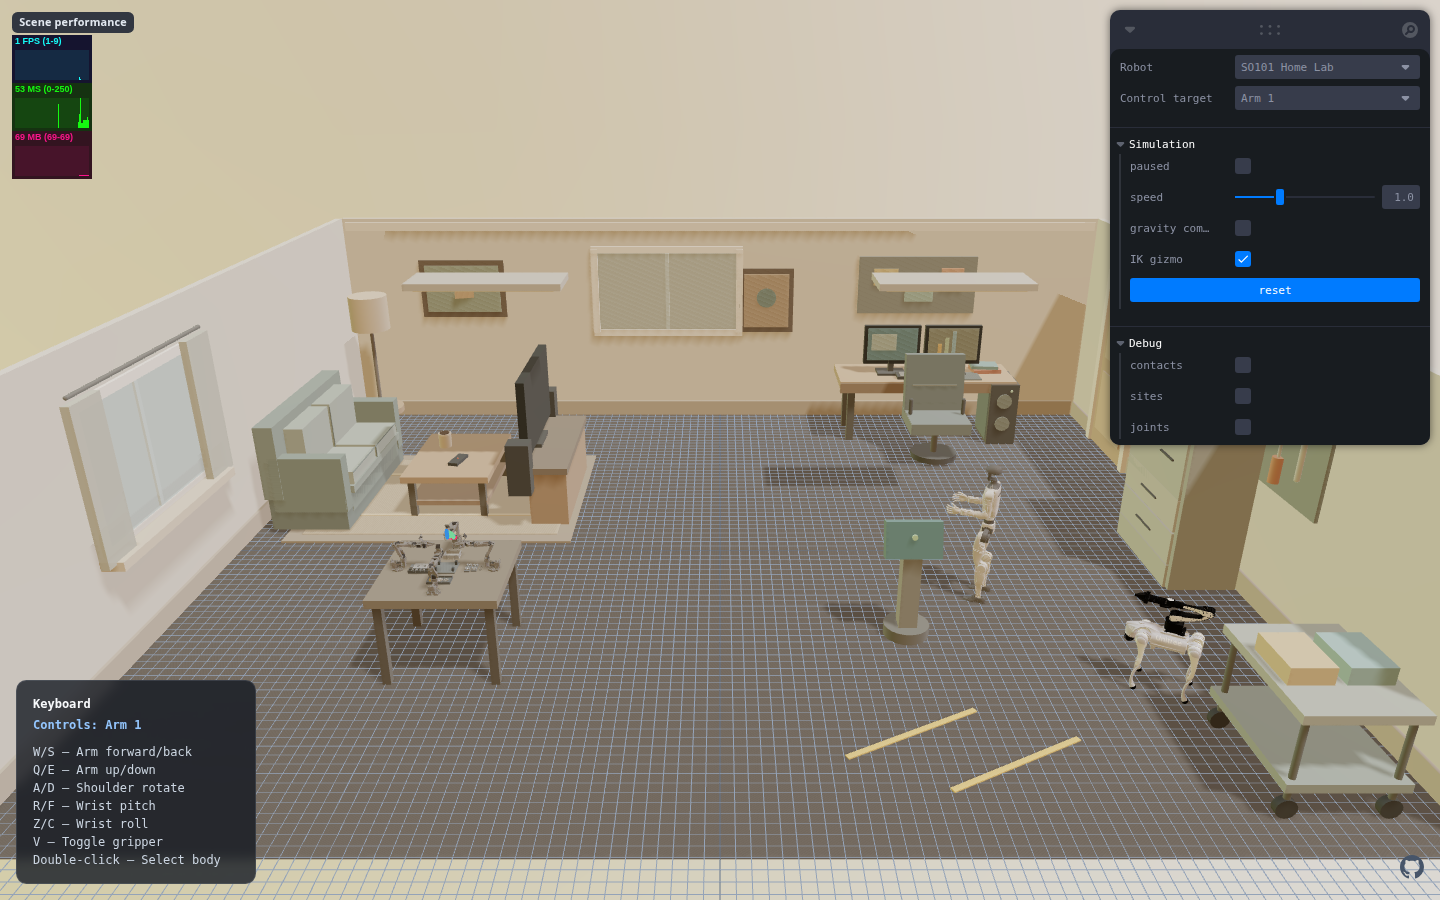
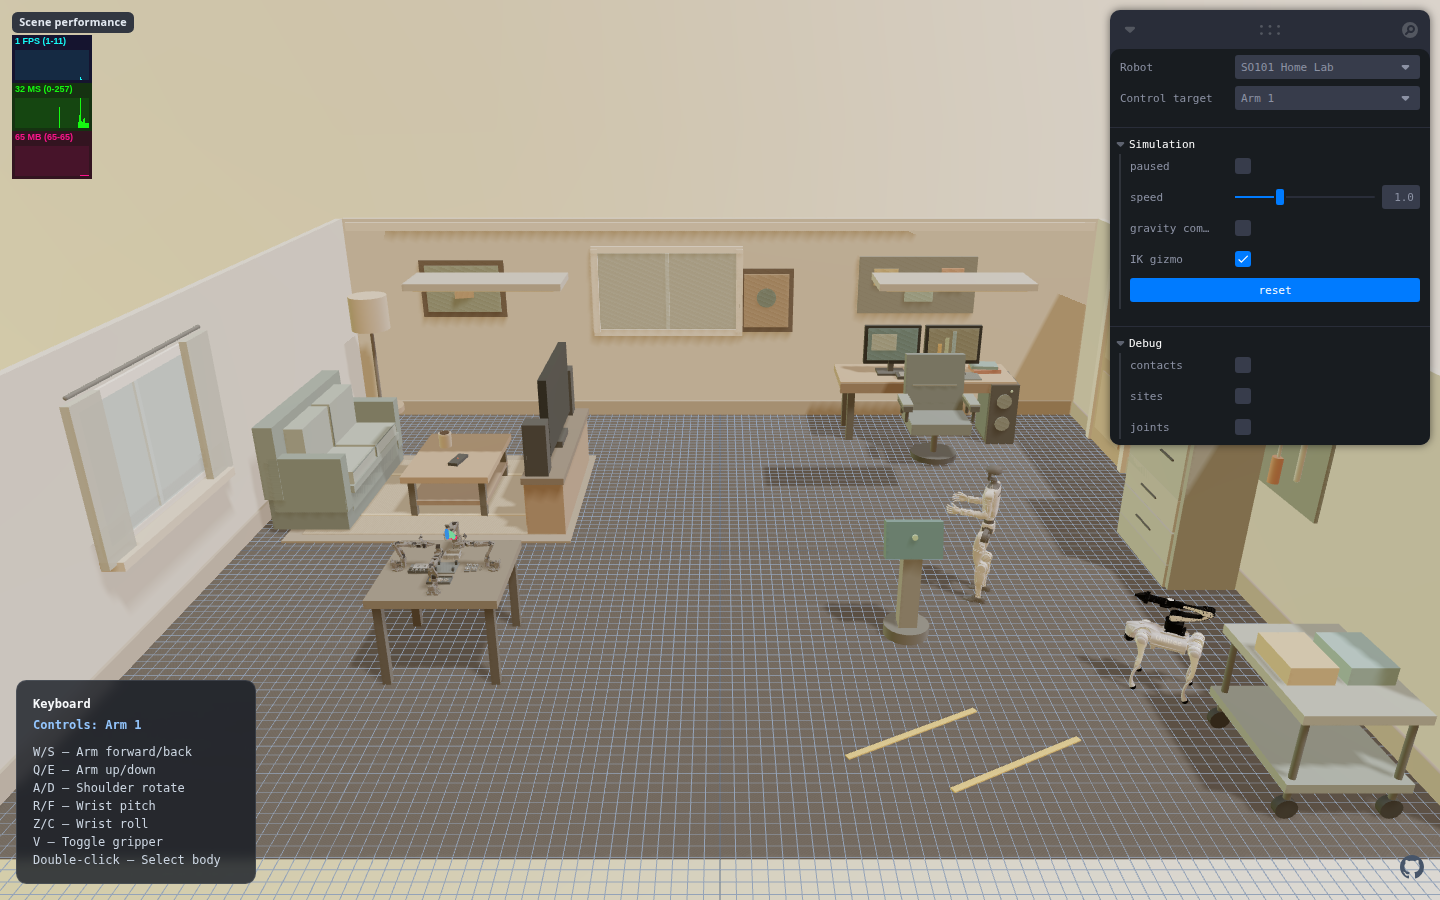
fix(scene): align Home Lab furniture
Rebuild the office-chair armrests and seat the TV and speakers cleanly on the widened console. Add geometry regression coverage and refresh the Home Lab visual and progress records.

Changed region(s): [[0.3438, 0.3733, 0.4062, 0.5911], [0.625, 0.4356, 0.6875, 0.4667]]

diff --git a/src/so101HomeLabEnvironment.js b/src/so101HomeLabEnvironment.js
@@ -82,26 +82,26 @@ export const SO101_HOME_LAB_ROOM_XML = `
       <geom name="home_lab_sofa_leg_4" type="box" pos="0.27 0.78 0.08" size="0.045 0.045 0.08" rgba="0.18 0.17 0.15 1" contype="0" conaffinity="0"/>
     </body>
     <body name="home_lab_tv_console" pos="-1.82 1.35 0">
-      <geom name="home_lab_tv_console_case" type="box" pos="0 0 0.31" size="0.20 0.78 0.31" rgba="0.48 0.38 0.29 1" contype="0" conaffinity="0"/>
-      <geom name="home_lab_tv_console_top" type="box" pos="0 0 0.65" size="0.22 0.82 0.035" rgba="0.30 0.27 0.23 1" contype="0" conaffinity="0"/>
-      <geom name="home_lab_tv_console_door_1" type="box" pos="-0.208 -0.38 0.34" size="0.010 0.33 0.24" rgba="0.61 0.49 0.36 1" contype="0" conaffinity="0"/>
-      <geom name="home_lab_tv_console_door_2" type="box" pos="-0.208 0.38 0.34" size="0.010 0.33 0.24" rgba="0.61 0.49 0.36 1" contype="0" conaffinity="0"/>
-      <geom name="home_lab_tv_console_handle_1" type="capsule" fromto="-0.225 -0.54 0.35 -0.225 -0.22 0.35" size="0.008" rgba="0.18 0.19 0.18 1" contype="0" conaffinity="0"/>
-      <geom name="home_lab_tv_console_handle_2" type="capsule" fromto="-0.225 0.22 0.35 -0.225 0.54 0.35" size="0.008" rgba="0.18 0.19 0.18 1" contype="0" conaffinity="0"/>
+      <geom name="home_lab_tv_console_case" type="box" pos="0 0 0.31" size="0.20 1.02 0.31" rgba="0.48 0.38 0.29 1" contype="0" conaffinity="0"/>
+      <geom name="home_lab_tv_console_top" type="box" pos="0 0 0.65" size="0.22 1.08 0.035" rgba="0.30 0.27 0.23 1" contype="0" conaffinity="0"/>
+      <geom name="home_lab_tv_console_door_1" type="box" pos="-0.208 -0.52 0.34" size="0.010 0.44 0.24" rgba="0.61 0.49 0.36 1" contype="0" conaffinity="0"/>
+      <geom name="home_lab_tv_console_door_2" type="box" pos="-0.208 0.52 0.34" size="0.010 0.44 0.24" rgba="0.61 0.49 0.36 1" contype="0" conaffinity="0"/>
+      <geom name="home_lab_tv_console_handle_1" type="capsule" fromto="-0.225 -0.76 0.35 -0.225 -0.36 0.35" size="0.008" rgba="0.18 0.19 0.18 1" contype="0" conaffinity="0"/>
+      <geom name="home_lab_tv_console_handle_2" type="capsule" fromto="-0.225 0.36 0.35 -0.225 0.76 0.35" size="0.008" rgba="0.18 0.19 0.18 1" contype="0" conaffinity="0"/>
     </body>
-    <body name="home_lab_tv" pos="-2.05 1.35 1.17">
+    <body name="home_lab_tv" pos="-1.82 1.35 1.20">
       <geom name="home_lab_tv_panel" type="box" size="0.045 0.72 0.42" rgba="0.07 0.08 0.08 1" contype="0" conaffinity="0"/>
       <geom name="home_lab_tv_screen" type="box" pos="-0.050 0 0.01" size="0.007 0.66 0.355" rgba="0.18 0.26 0.29 1" contype="0" conaffinity="0"/>
       <geom name="home_lab_tv_screen_horizon" type="box" pos="-0.059 0 -0.08" size="0.003 0.52 0.07" rgba="0.40 0.48 0.42 1" contype="0" conaffinity="0"/>
       <geom name="home_lab_tv_stand" type="box" pos="0 0 -0.48" size="0.09 0.22 0.035" rgba="0.13 0.14 0.14 1" contype="0" conaffinity="0"/>
       <geom name="home_lab_tv_neck" type="box" pos="0 0 -0.42" size="0.035 0.035 0.08" rgba="0.13 0.14 0.14 1" contype="0" conaffinity="0"/>
     </body>
-    <body name="home_lab_tv_left_speaker" pos="-2.08 0.48 0.72">
+    <body name="home_lab_tv_left_speaker" pos="-1.88 0.43 0.965">
       <geom name="home_lab_tv_left_speaker_case" type="box" size="0.12 0.10 0.28" rgba="0.12 0.13 0.13 1" contype="0" conaffinity="0"/>
       <geom name="home_lab_tv_left_speaker_driver_1" type="cylinder" pos="-0.105 0 0.10" size="0.055 0.010" euler="0 90 0" rgba="0.35 0.36 0.34 1" contype="0" conaffinity="0"/>
       <geom name="home_lab_tv_left_speaker_driver_2" type="cylinder" pos="-0.105 0 -0.11" size="0.075 0.010" euler="0 90 0" rgba="0.27 0.28 0.27 1" contype="0" conaffinity="0"/>
     </body>
-    <body name="home_lab_tv_right_speaker" pos="-2.08 2.22 0.72">
+    <body name="home_lab_tv_right_speaker" pos="-1.88 2.27 0.965">
       <geom name="home_lab_tv_right_speaker_case" type="box" size="0.12 0.10 0.28" rgba="0.12 0.13 0.13 1" contype="0" conaffinity="0"/>
       <geom name="home_lab_tv_right_speaker_driver_1" type="cylinder" pos="-0.105 0 0.10" size="0.055 0.010" euler="0 90 0" rgba="0.35 0.36 0.34 1" contype="0" conaffinity="0"/>
       <geom name="home_lab_tv_right_speaker_driver_2" type="cylinder" pos="-0.105 0 -0.11" size="0.075 0.010" euler="0 90 0" rgba="0.27 0.28 0.27 1" contype="0" conaffinity="0"/>
@@ -184,8 +184,14 @@ export const SO101_HOME_LAB_ROOM_XML = `
       <geom name="home_lab_office_chair_back" type="box" pos="0 0.29 0.91" size="0.36 0.07 0.36" euler="-8 0 0" rgba="0.25 0.30 0.30 1" contype="0" conaffinity="0"/>
       <geom name="home_lab_office_chair_mesh_1" type="capsule" fromto="-0.27 0.215 0.70 0.27 0.215 0.70" size="0.009" rgba="0.45 0.49 0.47 1" contype="0" conaffinity="0"/>
       <geom name="home_lab_office_chair_mesh_2" type="capsule" fromto="-0.27 0.225 0.90 0.27 0.225 0.90" size="0.009" rgba="0.45 0.49 0.47 1" contype="0" conaffinity="0"/>
-      <geom name="home_lab_office_chair_arm_left" type="capsule" fromto="-0.32 0 0.62 -0.32 0 0.78" size="0.025" rgba="0.19 0.20 0.20 1" contype="0" conaffinity="0"/>
-      <geom name="home_lab_office_chair_arm_right" type="capsule" fromto="0.32 0 0.62 0.32 0 0.78" size="0.025" rgba="0.19 0.20 0.20 1" contype="0" conaffinity="0"/>
+      <geom name="home_lab_office_chair_arm_support_front_left" type="capsule" fromto="-0.40 -0.20 0.59 -0.40 -0.20 0.72" size="0.022" rgba="0.19 0.20 0.20 1" contype="0" conaffinity="0"/>
+      <geom name="home_lab_office_chair_arm_support_rear_left" type="capsule" fromto="-0.40 0.12 0.59 -0.40 0.12 0.72" size="0.022" rgba="0.19 0.20 0.20 1" contype="0" conaffinity="0"/>
+      <geom name="home_lab_office_chair_arm_support_front_right" type="capsule" fromto="0.40 -0.20 0.59 0.40 -0.20 0.72" size="0.022" rgba="0.19 0.20 0.20 1" contype="0" conaffinity="0"/>
+      <geom name="home_lab_office_chair_arm_support_rear_right" type="capsule" fromto="0.40 0.12 0.59 0.40 0.12 0.72" size="0.022" rgba="0.19 0.20 0.20 1" contype="0" conaffinity="0"/>
+      <geom name="home_lab_office_chair_arm_rail_left" type="box" pos="-0.40 -0.04 0.755" size="0.055 0.22 0.035" rgba="0.18 0.20 0.20 1" contype="0" conaffinity="0"/>
+      <geom name="home_lab_office_chair_arm_rail_right" type="box" pos="0.40 -0.04 0.755" size="0.055 0.22 0.035" rgba="0.18 0.20 0.20 1" contype="0" conaffinity="0"/>
+      <geom name="home_lab_office_chair_arm_pad_left" type="box" pos="-0.40 -0.04 0.795" size="0.062 0.205 0.015" rgba="0.37 0.43 0.42 1" contype="0" conaffinity="0"/>
+      <geom name="home_lab_office_chair_arm_pad_right" type="box" pos="0.40 -0.04 0.795" size="0.062 0.205 0.015" rgba="0.37 0.43 0.42 1" contype="0" conaffinity="0"/>
     </body>
     <body name="home_lab_wall_organizer" pos="2.62 4.105 1.83">
       <geom name="home_lab_wall_organizer_board" type="box" size="0.78 0.015 0.38" rgba="0.35 0.38 0.36 1" contype="0" conaffinity="0"/>

diff --git a/docs/superpowers/plans/2026-08-13-home-lab-chair-tv-fit.md b/docs/superpowers/plans/2026-08-13-home-lab-chair-tv-fit.md
@@ -1,0 +1,54 @@
+# Home Lab Chair and TV Fit Implementation Plan
+
+> **For agentic workers:** REQUIRED SUB-SKILL: Use superpowers:subagent-driven-development (recommended) or superpowers:executing-plans to implement this plan task-by-task. Steps use checkbox (`- [ ]`) syntax for tracking.
+
+**Goal:** Give the Home Lab office chair complete armrests and place the TV and speakers correctly on their console.
+
+**Architecture:** Keep all visual geometry in `src/so101HomeLabEnvironment.js`. Extend the existing Home Lab layout test with hand-derived surface and footprint checks against the emitted MJCF, then refresh the existing screenshot and progress record.
+
+**Tech Stack:** JavaScript, MuJoCo MJCF, Node test runner, Playwright, Vite.
+
+## Global Constraints
+
+- Modify only `SO101 Home Lab` furniture and its documentation/test artifacts.
+- Preserve all robot, workcell, control, and physics mappings.
+- Require positive TV-to-speaker clearance and exact cabinet-top support heights.
+
+---
+
+### Task 1: Furniture geometry contracts
+
+**Files:**
+- Modify: `test/collaborative-scene-layouts.test.mjs`
+
+**Interfaces:**
+- Consumes: `SO101_HOME_LAB_LAYOUT.xmlPatches`.
+- Produces: regression checks for armrest construction and TV-console fit.
+
+- [x] **Step 1: Write failing assertions** for four named arm supports, two
+  padded rails, common cabinet-top support height, contained footprints, and
+  positive TV-to-speaker gaps.
+- [x] **Step 2: Run the Home Lab detail test** and confirm it fails against the
+  current two-stick chair and intersecting media furniture.
+
+### Task 2: Chair and media-console implementation
+
+**Files:**
+- Modify: `src/so101HomeLabEnvironment.js`
+- Modify: `docs/progress/2026-08-13-so101-home-lab-layout-mobility.md`
+- Replace: `artifacts/screenshots/so101-home-lab.png`
+
+**Interfaces:**
+- Produces: corrected fixed MJCF bodies consumed by the existing Home Lab
+  layout; no new runtime interface.
+
+- [x] **Step 1: Replace chair arm sticks** with front/rear supports and padded
+  longitudinal rails on both sides.
+- [x] **Step 2: Resize and refit the media group** by widening the console,
+  expanding its doors, centering/raising the TV, and seating both speakers on
+  the console outside the screen.
+- [x] **Step 3: Run the focused test** and confirm all geometry contracts pass.
+- [x] **Step 4: Compile and capture** Home Lab, inspect the screenshot, and
+  record final body/geom/actuator/contact counts.
+- [x] **Step 5: Run the complete gate:** `npm test`, `npx tsc --noEmit`,
+  `npm run build`, and `git diff --check`.

diff --git a/docs/superpowers/specs/2026-08-13-home-lab-chair-tv-fit-design.md b/docs/superpowers/specs/2026-08-13-home-lab-chair-tv-fit-design.md
@@ -1,0 +1,35 @@
+# Home Lab Chair and TV Fit Design
+
+Date: 2026-08-13
+
+## Goal
+
+Correct two visible furniture defects in `SO101 Home Lab`: replace the office
+chair's stick-like arm pieces with complete supported armrests, and place the TV
+and both speakers cleanly on the TV console without intersecting the console or
+one another.
+
+## Design
+
+The chair keeps its current seat, back, base, and room position. Each armrest is
+rebuilt from two slim vertical supports and one horizontal padded rail. The
+supports connect to the seat area and stop beneath the rail; the rail runs along
+the sitting direction and remains clear of the backrest.
+
+The TV console retains its room center but grows along its width so the screen
+and speakers fit as one composition. Its two front doors and handles expand
+with the cabinet. The TV is centered through the cabinet depth and raised until
+the bottom of its stand exactly meets the cabinet top. Each speaker is placed
+on the same top plane, outside the screen width with a visible gap, and fully
+inside the cabinet footprint.
+
+## Verification
+
+- Generated Home Lab MJCF contains four chair-arm supports and two padded rails.
+- TV stand bottom and both speaker bottoms equal the console-top elevation.
+- TV stand and speaker footprints remain inside the console-top footprint.
+- Speaker footprints have positive clearance from the TV panel.
+- MuJoCo compilation, initial-contact inspection, the project test suite,
+  TypeScript, and production build pass.
+- The refreshed 1440 × 900 screenshot is inspected for the requested visual
+  placement.

diff --git a/docs/progress/2026-08-13-so101-home-lab-layout-mobility.md b/docs/progress/2026-08-13-so101-home-lab-layout-mobility.md
@@ -17,15 +17,20 @@ Date: 2026-08-13
   now stand directly on the room floor.
 - Rebuilt the corner service cart undercarriage with four floor-contacting
   wheels; each wheel center is at 0.075 m with a 0.075 m radius.
+- Rebuilt both office-chair armrests with front/rear supports, longitudinal
+  rails, and separate padded tops instead of unsupported vertical sticks.
+- Widened the TV console and refitted the complete media group: the TV stand
+  and both speakers now share the 0.685 m cabinet-top support elevation, remain
+  inside the cabinet footprint, and keep 0.10 m clearance from the TV panel.
 
 ## Verification evidence
 
-- MuJoCo 3.3.8: 148 bodies, 614 geoms, 30 actuators, 121 qpos.
+- MuJoCo 3.3.8: 148 bodies, 620 geoms, 30 actuators, 121 qpos.
 - Initial penetration: 0 / 0 contacts.
 - Four SO101 roots compile around the translated center and retain their TCP
   positions relative to the task island.
 - G1 and Go2 + Arm browser W/S translation and A/D yaw checks: PASS.
-- Full regression: 76 / 76 tests passed; TypeScript and production build passed.
+- Full regression: 77 / 77 tests passed; TypeScript and production build passed.
 - Screenshot: `artifacts/screenshots/so101-home-lab.png`.
 
 The mobility layer is simulated planar whole-body motion for the fixed-pose
